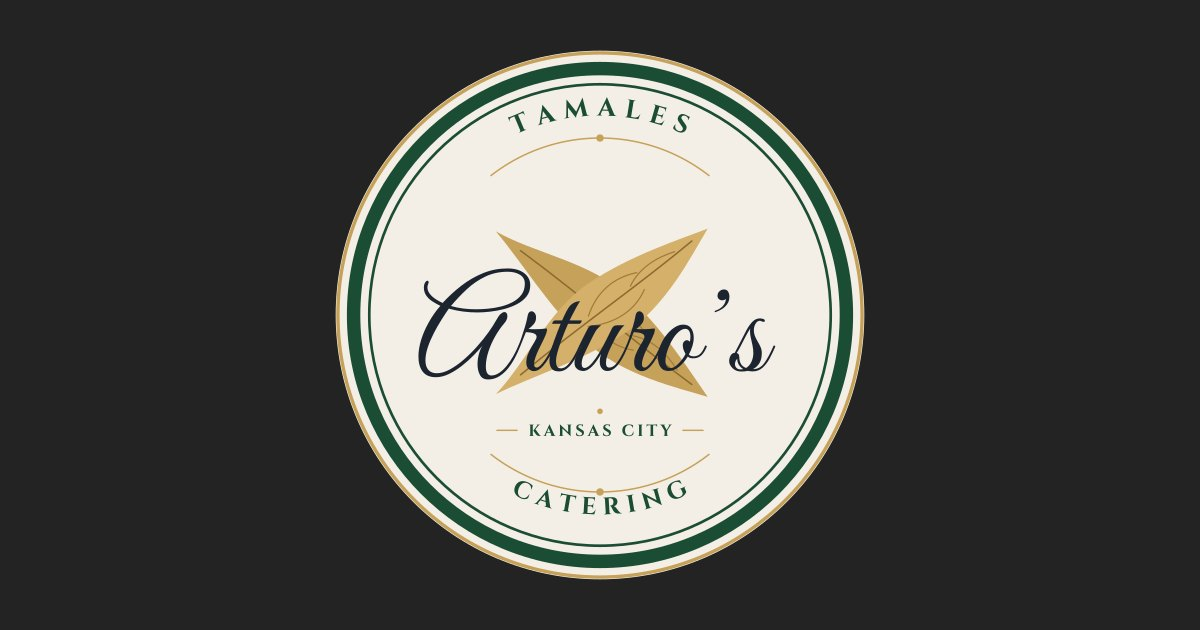
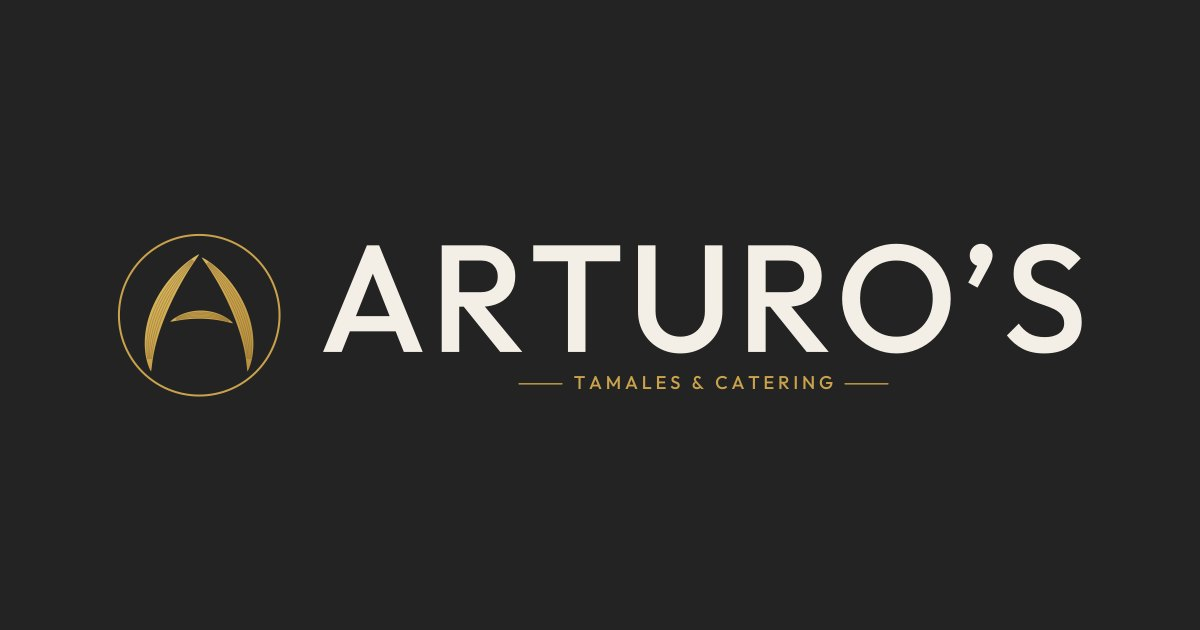
Replace the badge with the gold husk monogram. (#4)
The header, footer, and 404 use a hand-built lockup: a husk-shaped A in a thin gold circle beside ARTURO'S, with a shorter wordmark on small screens. Favicon, apple touch icon, and the share image use the same mark, and the old badge is no longer shipped.

Changed region(s): [[0.0925, 0.0603, 0.925, 0.9349]]

diff --git a/styles.css b/styles.css
@@ -88,35 +88,20 @@ a { color: inherit; }
 }
 
 .brandmark {
-  width: 72px;
-  height: 72px;
+  width: auto;
+  height: auto;
+  aspect-ratio: auto;
   object-fit: contain;
-  transition: width 0.25s ease, height 0.25s ease;
+  object-position: left center;
 }
 
-.topbar.is-condensed .brandmark { width: 56px; height: 56px; }
+.brandmark-short { display: none; }
 
-.brand-name {
-  display: flex;
-  flex-direction: column;
-  line-height: 1.05;
-}
+.topbar .brandmark-full { width: min(360px, 42vw); }
+.topbar.is-condensed .brandmark-full { width: min(300px, 36vw); }
 
-.brand-name strong {
-  font-family: Fraunces, Georgia, serif;
-  font-size: 1.55rem;
-  font-weight: 560;
-  letter-spacing: -0.03em;
-  color: var(--cream);
-}
-
-.brand-name span {
-  font-size: 0.68rem;
-  font-weight: 600;
-  letter-spacing: 0.16em;
-  text-transform: uppercase;
-  color: var(--gold);
-}
+.brand-foot .brandmark-full { width: min(320px, 100%); }
+.missing .brandmark-full { width: min(420px, 100%); }
 
 .nav-toggle {
   display: none;
@@ -724,11 +709,7 @@ footer {
   flex-wrap: wrap;
 }
 
-.brand-foot .brand-name strong { color: #f6efe6; font-size: 1.2rem; }
-
 .foot-title { display: block; margin-top: 14px; }
-
-.brand-foot .brand-name span { color: var(--gold-bright); }
 
 .foot nav {
   display: flex;
@@ -872,7 +853,12 @@ footer :focus-visible { outline-color: var(--gold-bright); }
 
   .topbar, .topbar.is-condensed { padding-left: 14px; padding-right: 14px; }
 
-  .brand-name span { display: none; }
+  .brandmark-full { display: none; }
+  .brandmark-short { display: block; }
+  .topbar .brandmark-short,
+  .topbar.is-condensed .brandmark-short { width: min(228px, 58vw); }
+  .brand-foot .brandmark-short,
+  .missing .brandmark-short { width: min(280px, 100%); }
 
   .gallery { grid-template-columns: 1fr; }
 

diff --git a/index.html b/index.html
@@ -37,11 +37,8 @@
 
   <header class="topbar">
     <a class="brand" href="#top">
-      <img class="brandmark" data-logo src="assets/logo-icon.svg" alt="" width="500" height="500" />
-      <span class="brand-name">
-        <strong>Arturo’s</strong>
-        <span>Tamales &amp; Catering</span>
-      </span>
+      <img class="brandmark brandmark-full" data-logo src="assets/logo-header.svg" alt="Arturo’s Tamales &amp; Catering" width="824" height="150" />
+      <img class="brandmark brandmark-short" data-logo-compact src="assets/logo-header-compact.svg" alt="Arturo’s Tamales &amp; Catering" width="784" height="118" />
     </a>
     <button class="nav-toggle" type="button" aria-expanded="false" aria-controls="site-nav">Menu</button>
     <nav class="nav" id="site-nav" aria-label="Primary">
@@ -373,11 +370,8 @@
     <div class="wrap foot">
       <div>
         <a class="brand brand-foot" href="#top">
-          <img class="brandmark" data-logo src="assets/logo-icon.svg" alt="" width="500" height="500" />
-          <span class="brand-name">
-            <strong>Arturo’s</strong>
-            <span>Tamales &amp; Catering</span>
-          </span>
+          <img class="brandmark brandmark-full" data-logo src="assets/logo-header.svg" alt="Arturo’s Tamales &amp; Catering" width="824" height="150" />
+          <img class="brandmark brandmark-short" data-logo-compact src="assets/logo-header-compact.svg" alt="Arturo’s Tamales &amp; Catering" width="784" height="118" />
         </a>
         <strong class="foot-title" data-business-name>Arturo’s Tamales &amp; Catering</strong>
         <div data-place>Kansas City, Missouri</div>

diff --git a/404.html b/404.html
@@ -17,11 +17,8 @@
 <body class="missing">
   <main class="missing-main">
     <a class="brand" href="/">
-      <img class="brandmark" data-logo src="/assets/logo-icon.svg" alt="" width="500" height="500" />
-      <span class="brand-name">
-        <strong>Arturo’s</strong>
-        <span>Tamales &amp; Catering</span>
-      </span>
+      <img class="brandmark brandmark-full" data-logo src="/assets/logo-header.svg" alt="Arturo’s Tamales &amp; Catering" width="824" height="150" />
+      <img class="brandmark brandmark-short" data-logo-compact src="/assets/logo-header-compact.svg" alt="Arturo’s Tamales &amp; Catering" width="784" height="118" />
     </a>
     <p class="eyebrow">404</p>
     <h1>That page isn’t on the menu.</h1>
@@ -31,10 +28,15 @@
   <script src="/config.js"></script>
   <script>
     (function () {
-      var mark = window.ArturoConfig && ArturoConfig.logoMark;
-      if (!mark) return;
-      var src = mark.charAt(0) === "/" ? mark : "/" + mark.replace(/^\.\//, "");
-      document.querySelectorAll("[data-logo]").forEach(function (img) { img.src = src; });
+      var cfg = window.ArturoConfig || {};
+      function abs(mark) {
+        if (!mark) return "";
+        return mark.charAt(0) === "/" ? mark : "/" + String(mark).replace(/^\.\//, "");
+      }
+      var mark = abs(cfg.logoMark);
+      if (mark) document.querySelectorAll("[data-logo]").forEach(function (img) { img.src = mark; });
+      var compact = abs(cfg.logoMarkCompact);
+      if (compact) document.querySelectorAll("[data-logo-compact]").forEach(function (img) { img.src = compact; });
     })();
   </script>
 </body>

diff --git a/config.js b/config.js
@@ -91,8 +91,11 @@ window.ArturoConfig = {
   venmoAvatarAlt: "",
 
   /**
-   * Header, footer, and 404 mark. To swap the logo, change logoMark and set the
-   * same path on each img[data-logo] so the mark still shows if JavaScript is off.
+   * Header, footer, and 404 lockup. To swap the logo, change these paths and the
+   * matching img src values so the mark still shows if JavaScript is off.
+   * logoMark is the full lockup (monogram, ARTURO'S, tagline).
+   * logoMarkCompact is the shorter lockup used on small screens.
    */
-  logoMark: "assets/logo-icon.svg"
+  logoMark: "assets/logo-header.svg",
+  logoMarkCompact: "assets/logo-header-compact.svg"
 };

diff --git a/app.js b/app.js
@@ -698,10 +698,17 @@
 
   function renderBrand() {
     const mark = String(config.logoMark || "").trim();
-    if (!mark) return;
-    document.querySelectorAll("[data-logo]").forEach(function (img) {
-      img.src = mark;
-    });
+    if (mark) {
+      document.querySelectorAll("[data-logo]").forEach(function (img) {
+        img.src = mark;
+      });
+    }
+    const compact = String(config.logoMarkCompact || "").trim();
+    if (compact) {
+      document.querySelectorAll("[data-logo-compact]").forEach(function (img) {
+        img.src = compact;
+      });
+    }
   }
 
   function renderVenmoAvatar() {
